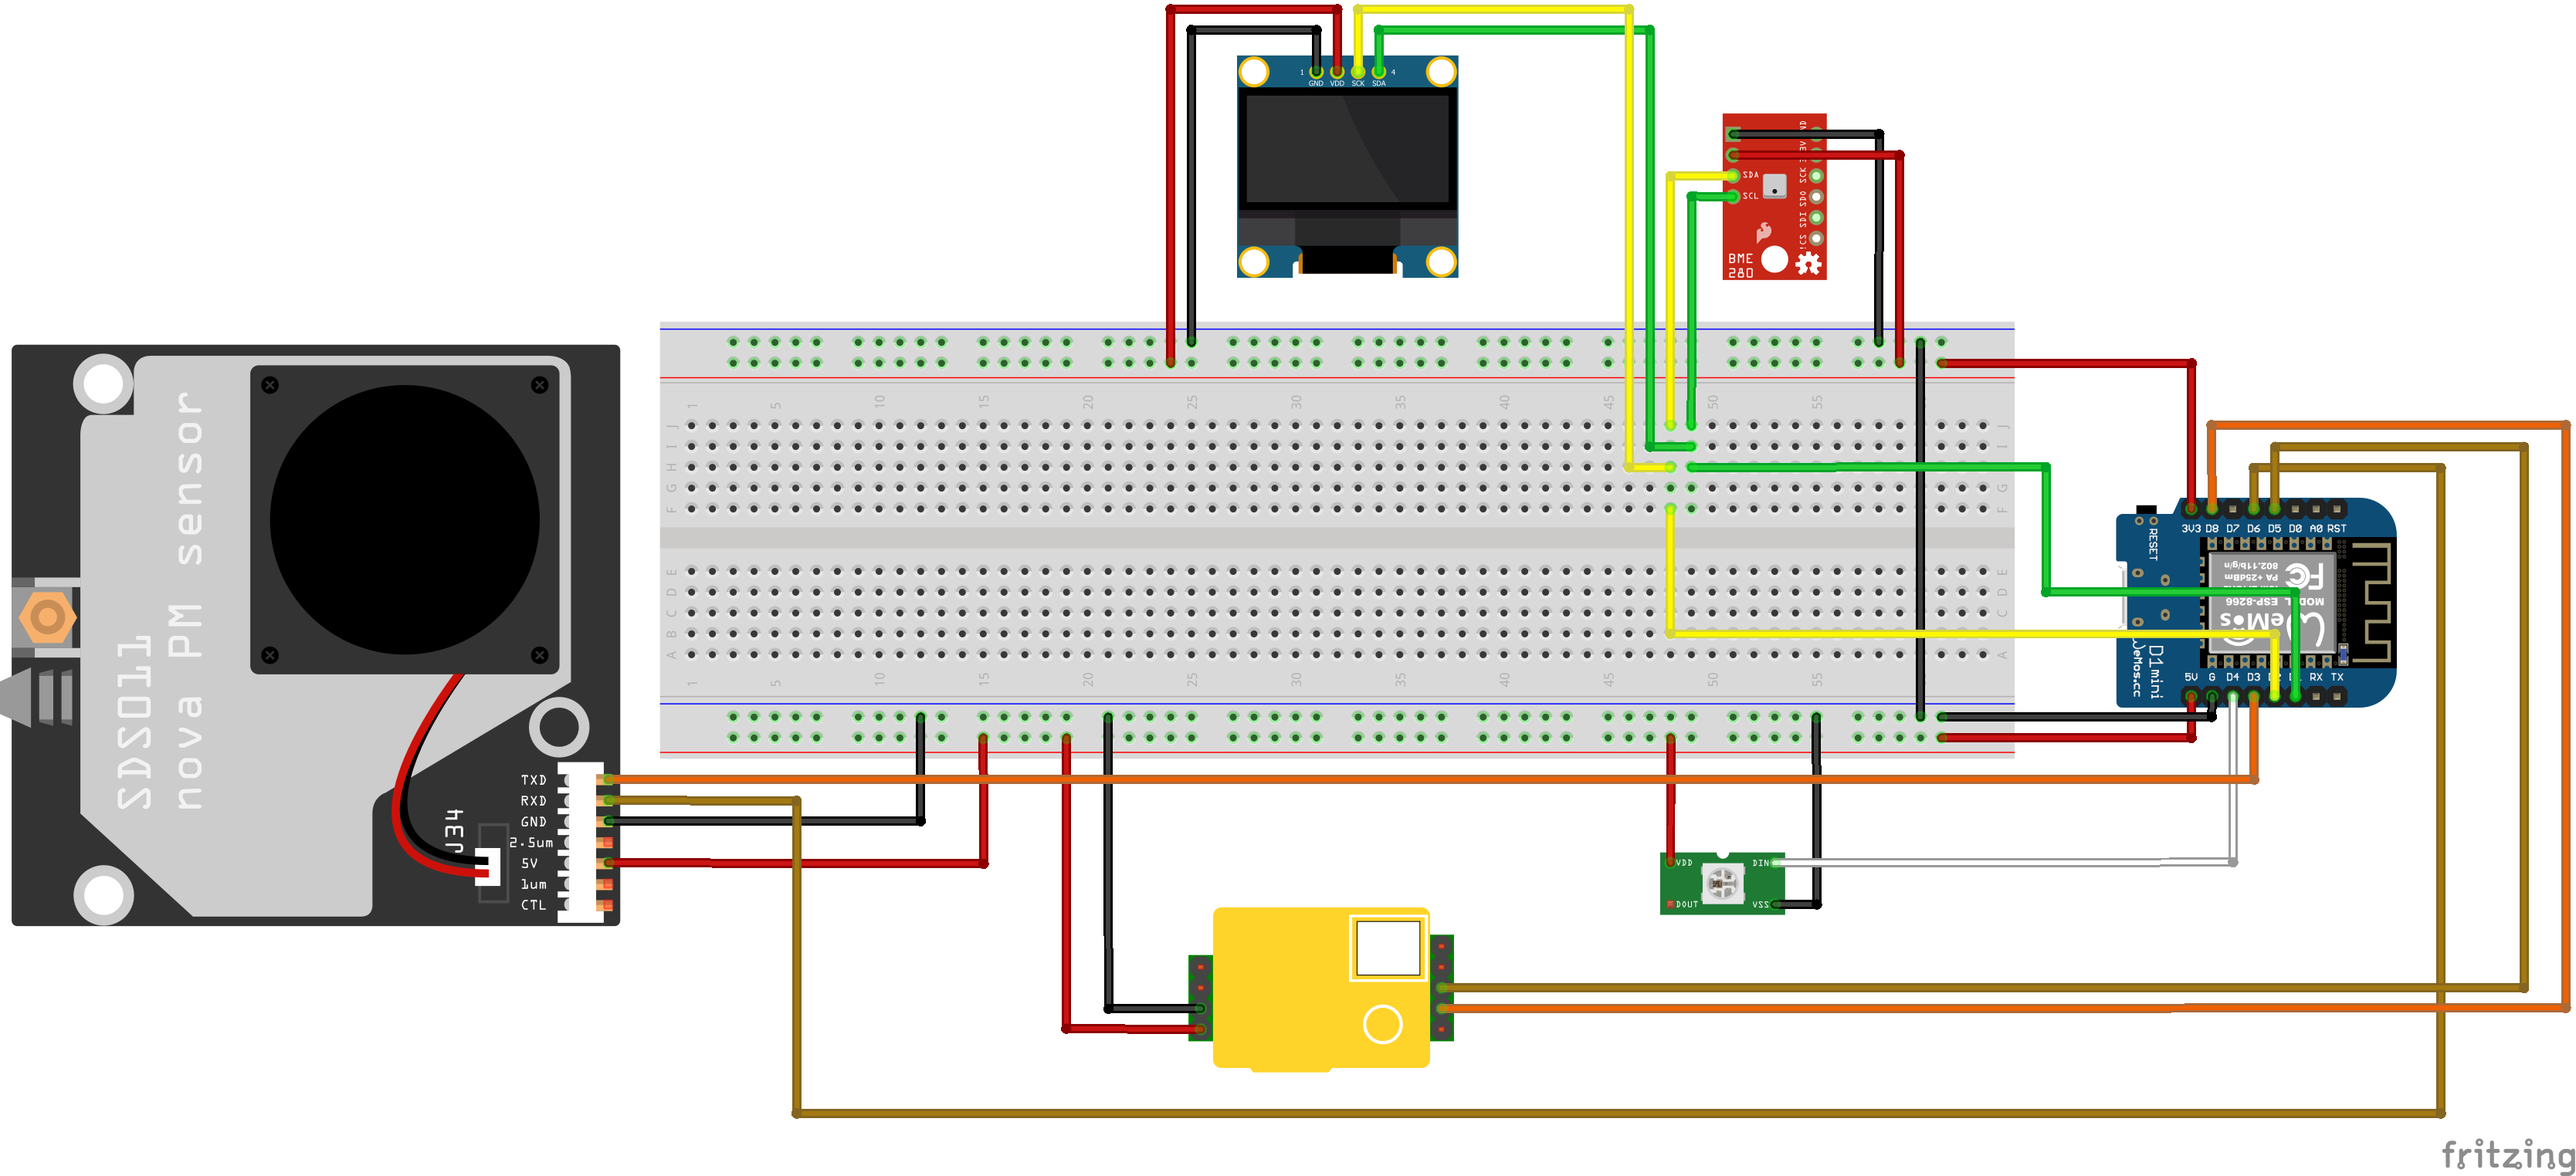
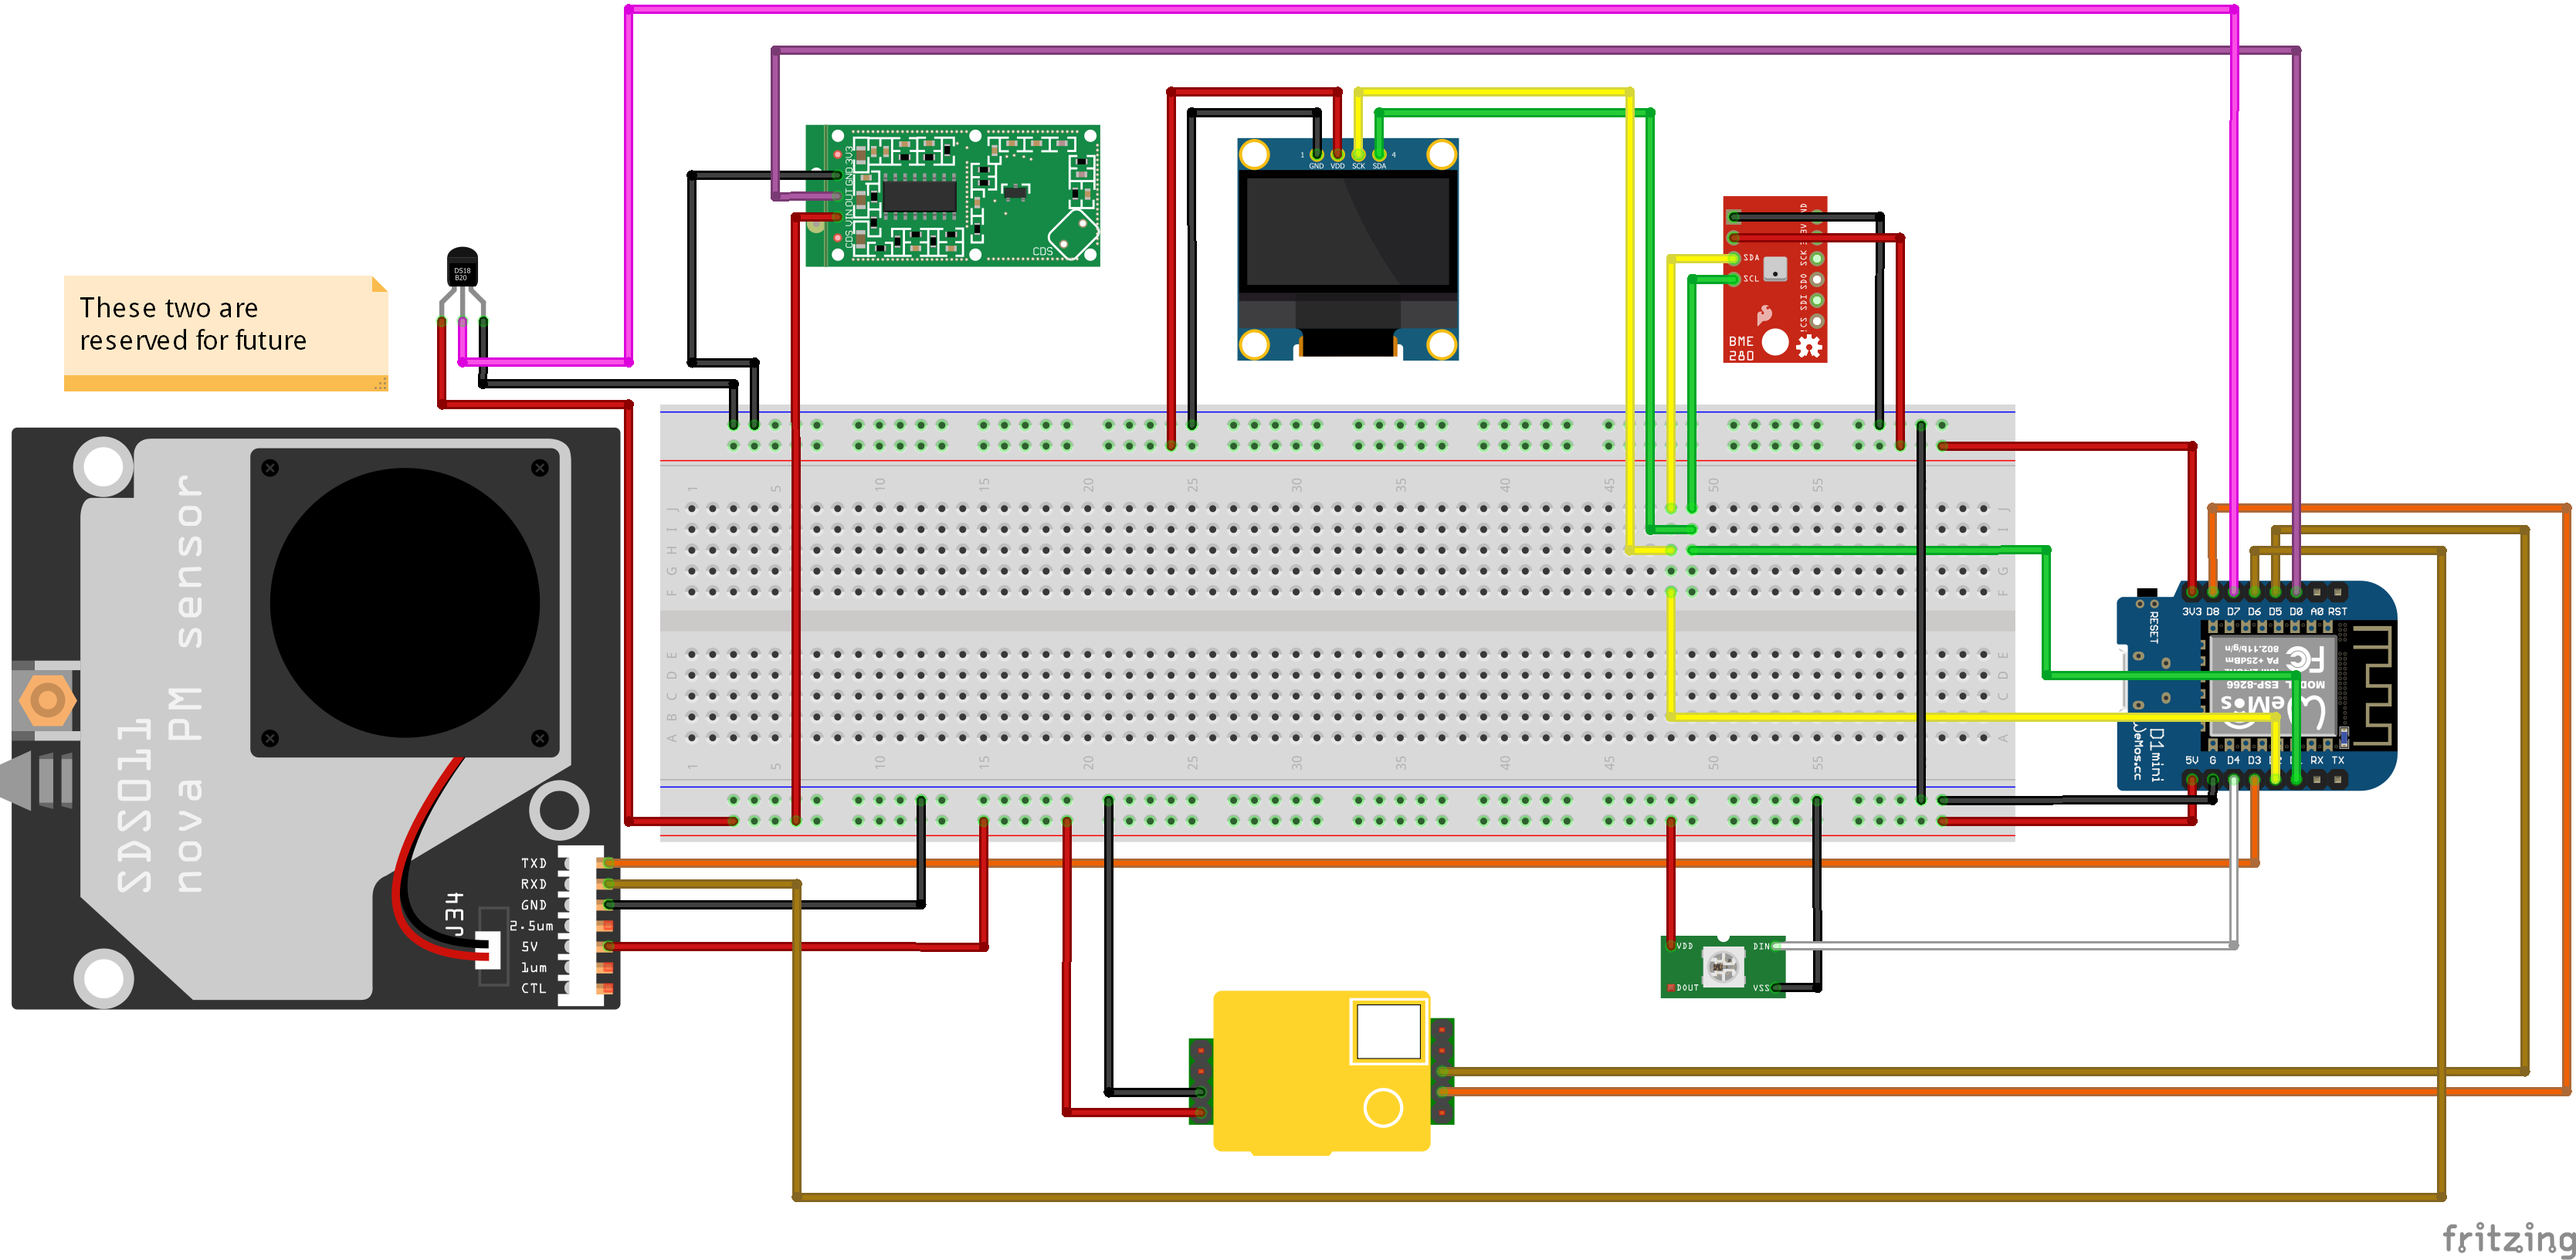
Updated wiring diagram to fit the PIR sensor
resolves #6

Changed region(s): [[0.0, 0.0, 1.0, 0.956], [0.9664, 0.956, 1.0, 1.0], [0.4053, 0.8018, 0.4676, 0.8944]]

diff --git a/device/design/README.md b/device/design/README.md
@@ -43,6 +43,9 @@ In Summary, labels on the Wemos D1 Mini
 |WS2812B | VDD | 5V |
 | | VSS | G |
 | | DIN | D4|
+| RCWL-0516 | VCC/VIN | 5V |
+| | VOUT | D0 |
+| | GND | G |
 |SDS011 (opt) | VCC | 5V |
 | | GND | G |
 | | TX | D3 |
